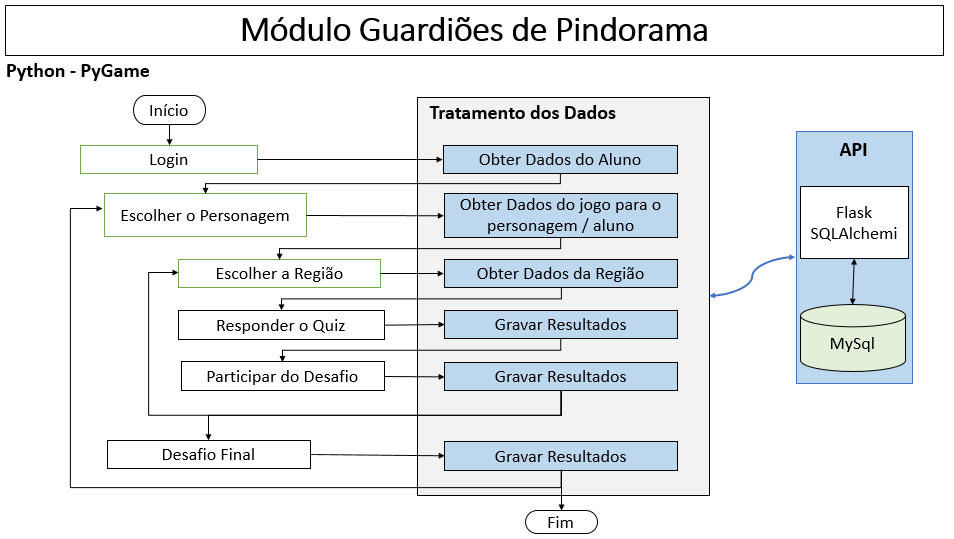
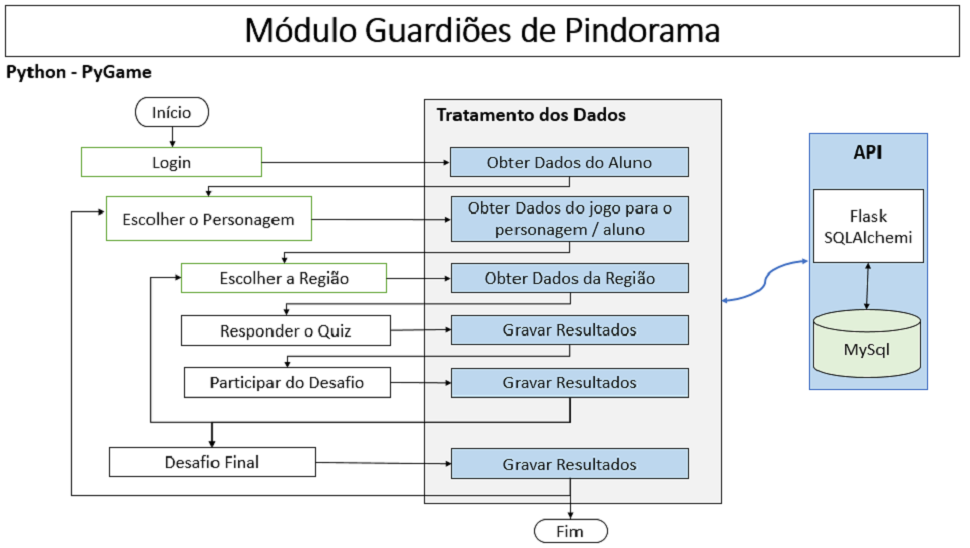
Organização dos diretórios

diff --git a/Website-tpgsystem/index.html b/Website-tpgsystem/index.html
@@ -50,7 +50,7 @@
         .hero h1 { font-size: 2.8rem; margin-bottom: 1.5rem; }
         .hero p { font-size: 1.2rem; max-width: 900px; margin: auto; }
 
-        section { padding: 1rem 5%; max-width: 1200px; margin: auto; }
+        section { padding: 0rem 5%; max-width: 1200px; margin: auto; }
 
         .content-box {
             background: #fff;
@@ -242,8 +242,8 @@
         .char-img1 { width: 500px; height: auto; margin: 10px; border: 2px solid var(--primary-teal); border-radius: 10px; }
         .flow-img1 { width: 100%; height: auto; margin: 20px 0; border-radius: 5px; }
 
-        .char-img2 { width: 350px; height: auto; margin: 10px; border: 2px solid var(--primary-teal); border-radius: 10px; }
-        .flow-img2 { width: 100%; height: auto; margin: 20px 0; border-radius: 5px; }
+        .char-img2 { width: 230px; margin: 10px; border: 2px solid var(--primary-teal); border-radius: 10px; }
+        .flow-img2 { width: 100%; height: auto; margin: 41px 0; margin-top: 25px; border-radius: 5px; }
 
         .btn {
             display: inline-block;
